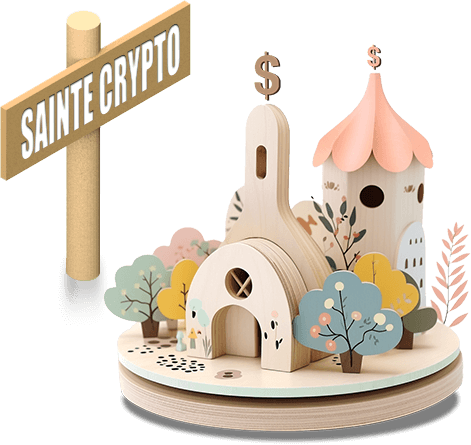
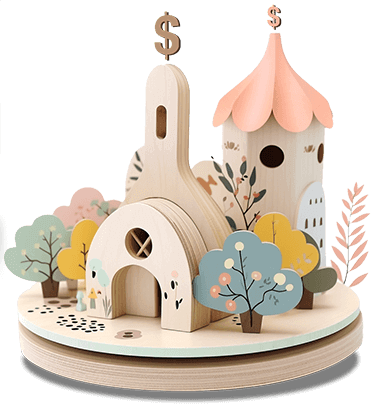
eglise

diff --git a/assets/js/data/cities.js b/assets/js/data/cities.js
@@ -37,8 +37,8 @@ export const CITIES = [
         src: '/assets/images/cities/eglise-sainte-crypto.png',
         x: 100,
         y: 500,
-        srcWidth: 471,
-        srcHeight: 445,
+        srcWidth: 371,
+        srcHeight: 405,
         html: "<p>Entrez, entrez, fidèles cryptobros ! Soyez les bienvenus dans ce lieu de foi véritable. Car la seule voie lumineuse, la bonne voie, l’orthodoxie non fongible, c’est évidemment que tout va bien : un océan d’opportunités technologiques, avec certes quelques petites optimisations à faire, mais rien de grave. Nous ne sommes plus ni dans le domaine de la science qui cherche la connaissance, ni dans celui de la technique qui cherche l’efficacité : nous sommes bel et bien dans le domaine de la foi.</p><blockquote>Il n'y a aucun malfaiteur qui blanchit en Crypto ça n'a aucun sens de suspecter tout le monde pour rien…</blockquote><p>Cela revient à dire que les comptes anonymes en Suisse sont transparents, puisque chaque compte a un numéro. Évidemment, si on ne sait pas à qui appartient chaque numéro, la démonstration perd de sa pertinence. C’est ce qui arrive avec les blockchains : les enregistrements sont publics et consultables par tout le monde, mais l’identité des acteurs est anonyme. Quant à la gabegie énergétique, l’argumentation peut prendre diverses formes, par exemple l’abus de name dropping (smart contract, lightning network, PoS, PoW...) ou le simple discrédit ad hominem, et bien trop souvent ad feminam (“Ce n'est clairement pas une interlocutrice valable 😂”, “Qu'elle vienne débattre après s'être formée pour commencer !”). En effet, la cryptosphère est très masculine. Lorsque les députées Aurore Lalucq et Assita Kanko ont œuvré avec courage pour tenter de réglementer le secteur des cryptomonnaies, elles ont fait face à de nombreuses agressions, dont beaucoup liaient féminité et incompétence. Nous y reviendrons à d’autres étapes.</p>"
     },
     {
